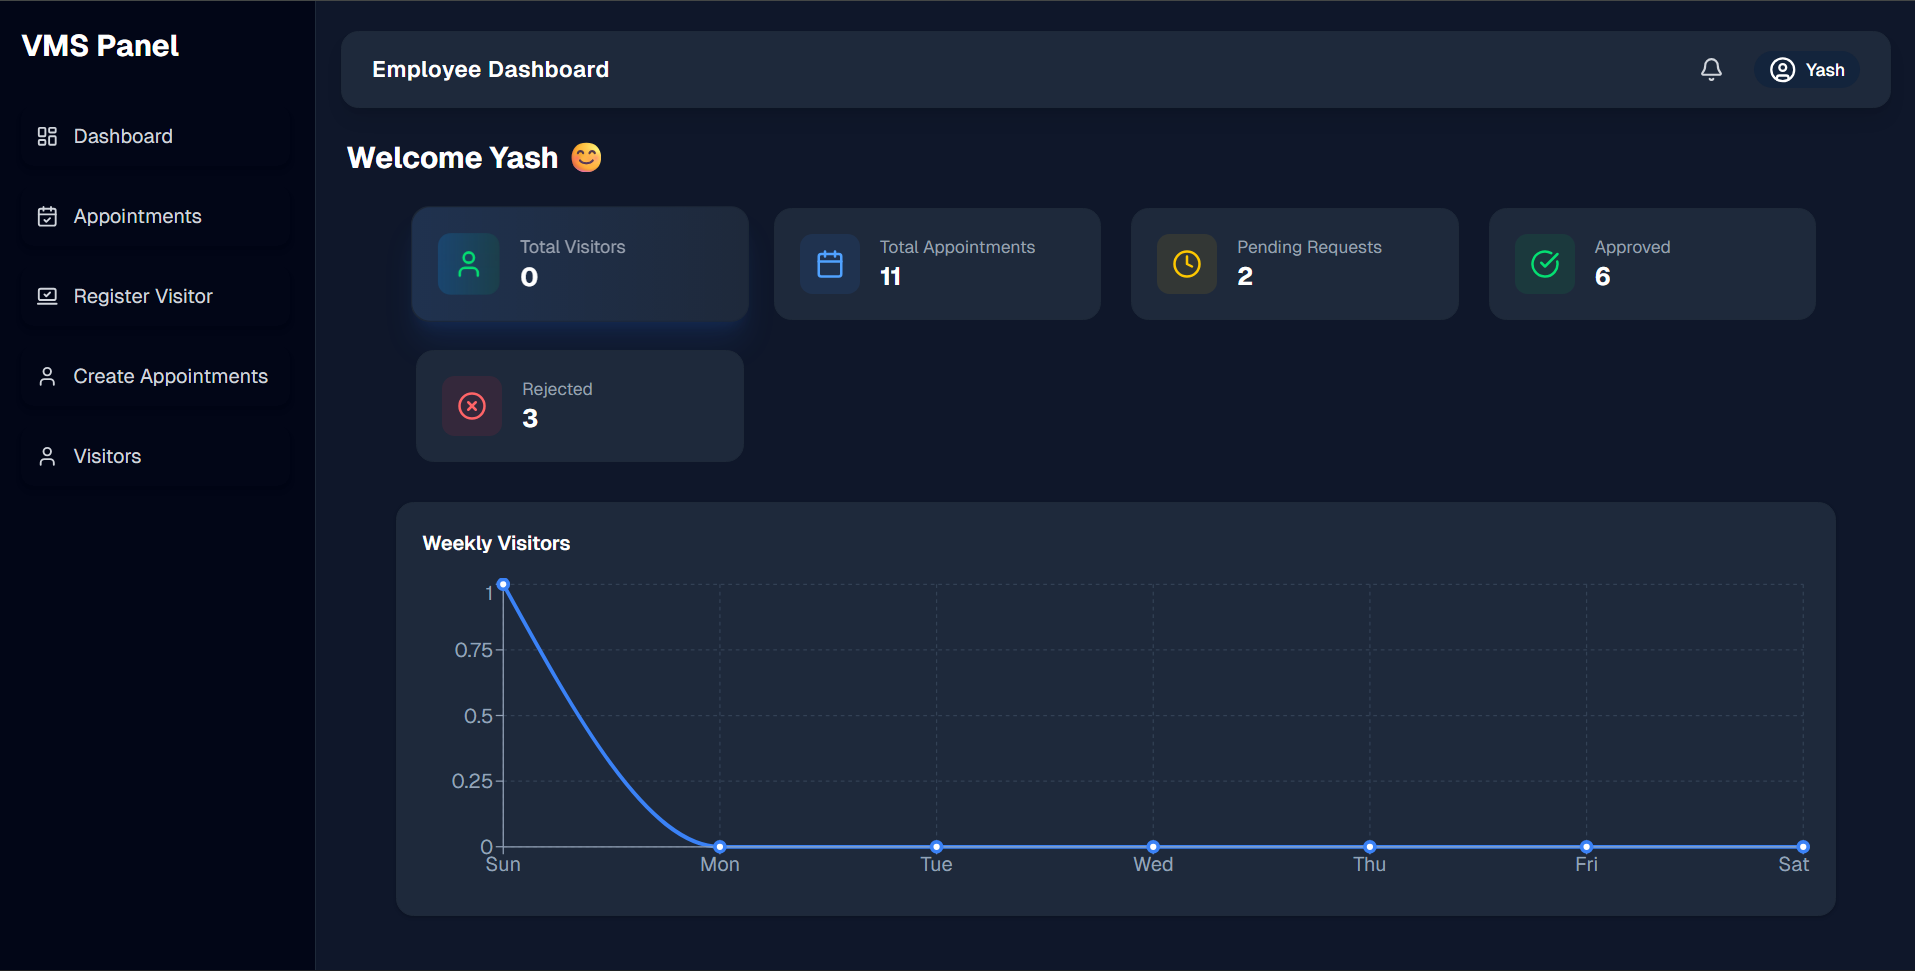
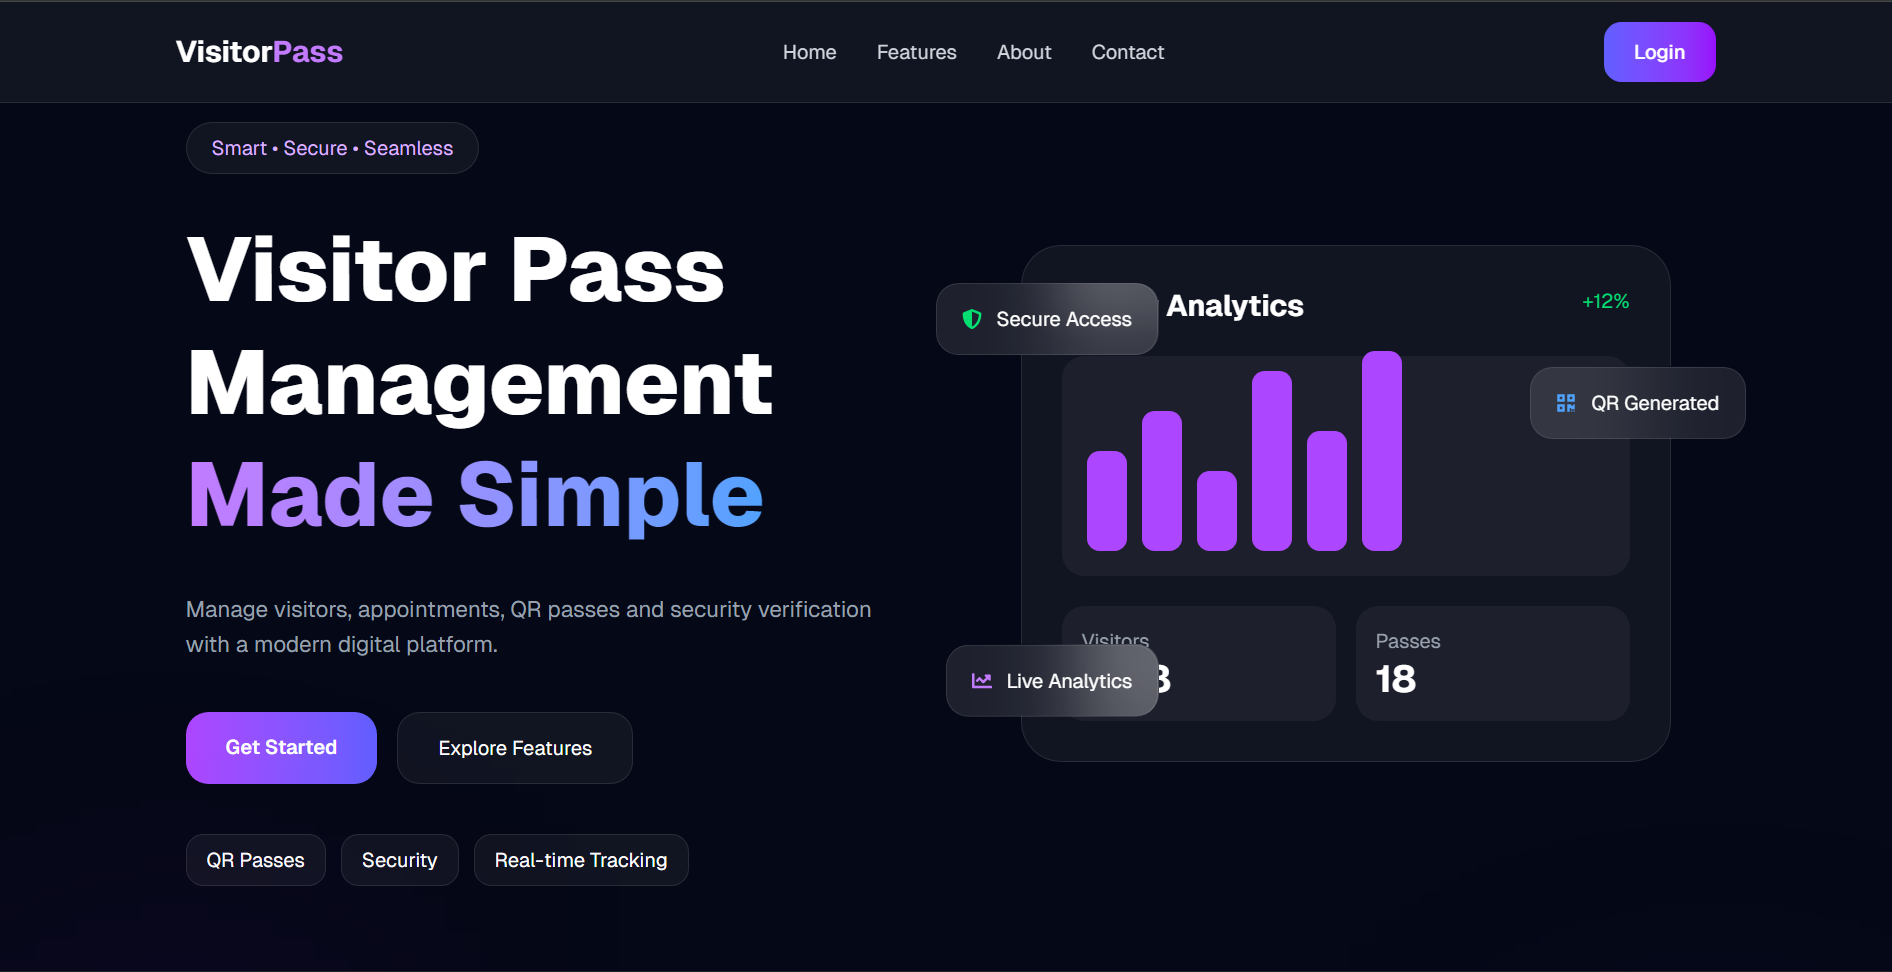
add live link of vms project

diff --git a/portfolio/src/sections/Project/ProjectsData.js b/portfolio/src/sections/Project/ProjectsData.js
@@ -29,7 +29,7 @@ export const projects = [
 
         subtitle: "Digital Visitor Tracking",
 
-        status: "development",
+        status: "live",
 
         description:
             "Visitor registration, approval workflow and pass generation system.",
@@ -39,7 +39,7 @@ export const projects = [
         image: "/projects/vms.png",
 
         github: "https://github.com/mohit-chaurasiya/MERN-PROJECT/tree/master/visitor-pass-management",
-        live: "#",
+        live: "https://mern-project-kappa-three.vercel.app/",
     },
 
     {